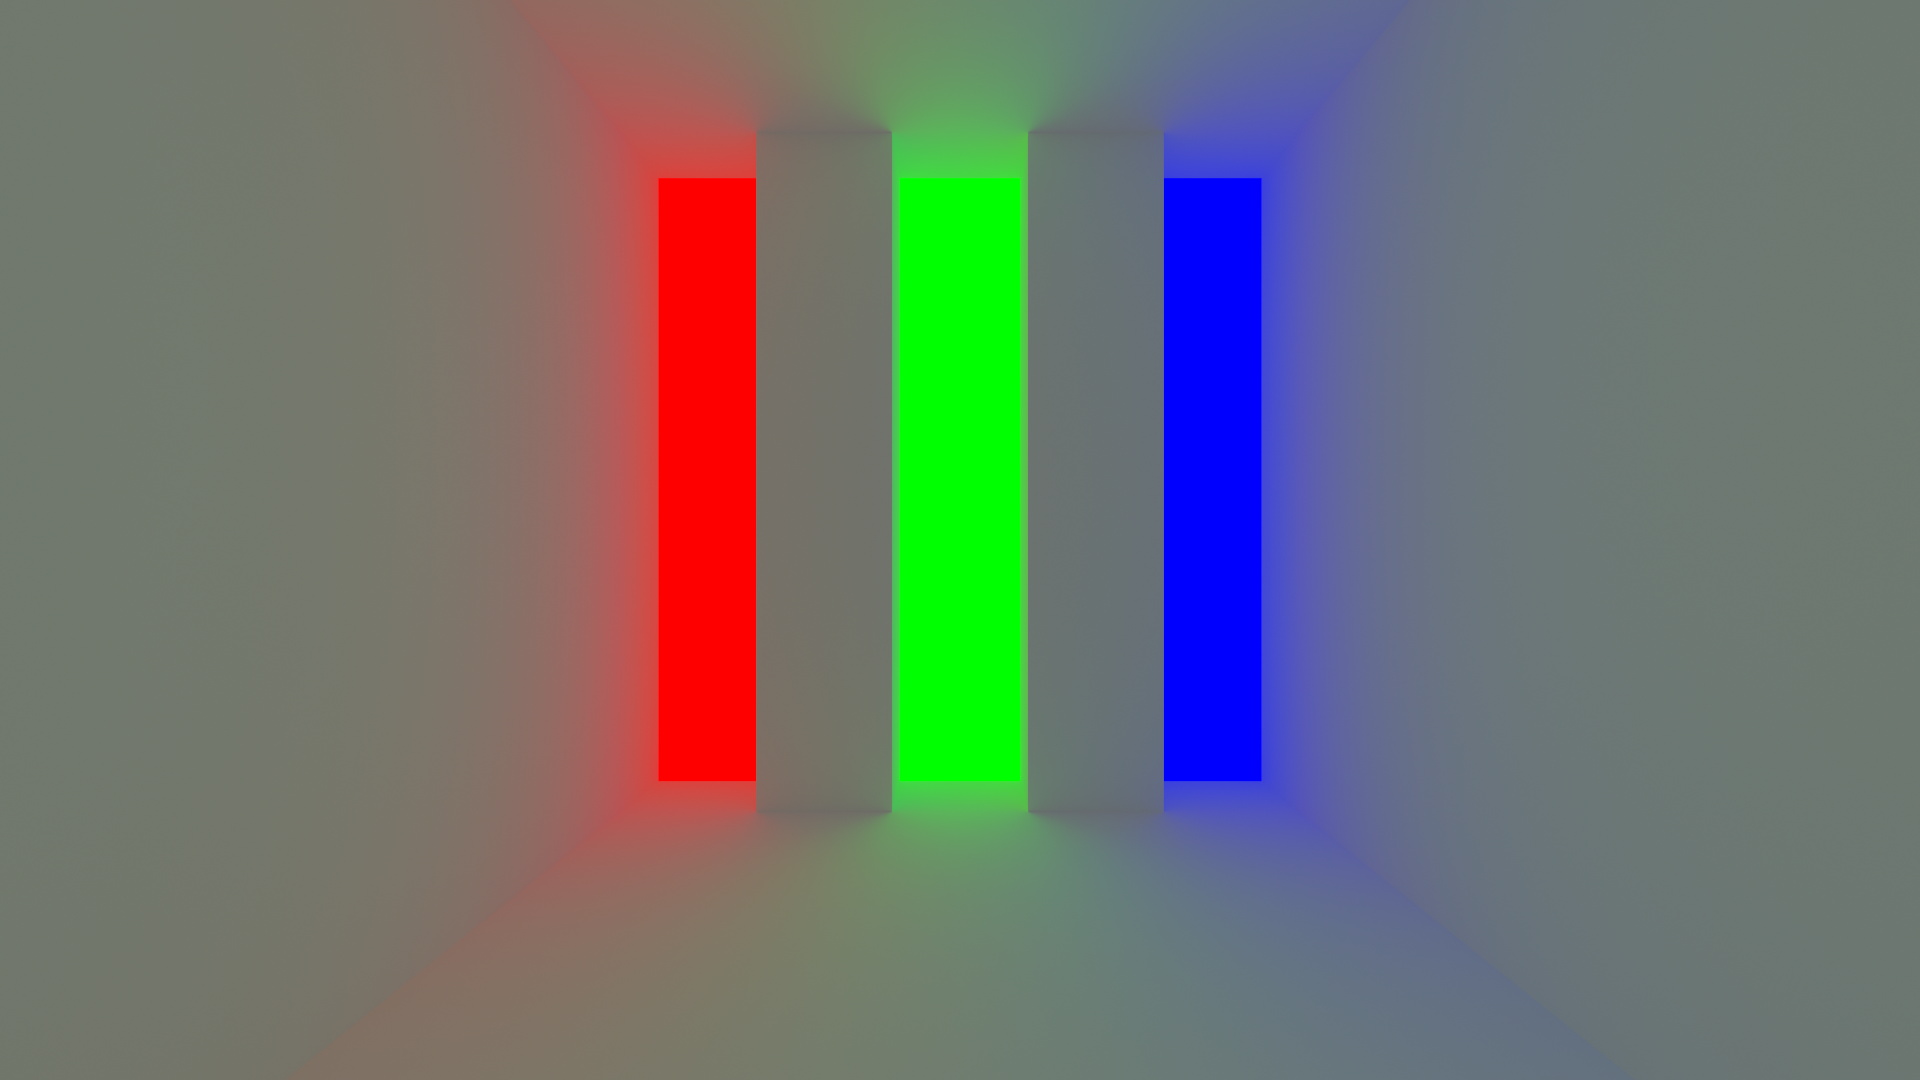
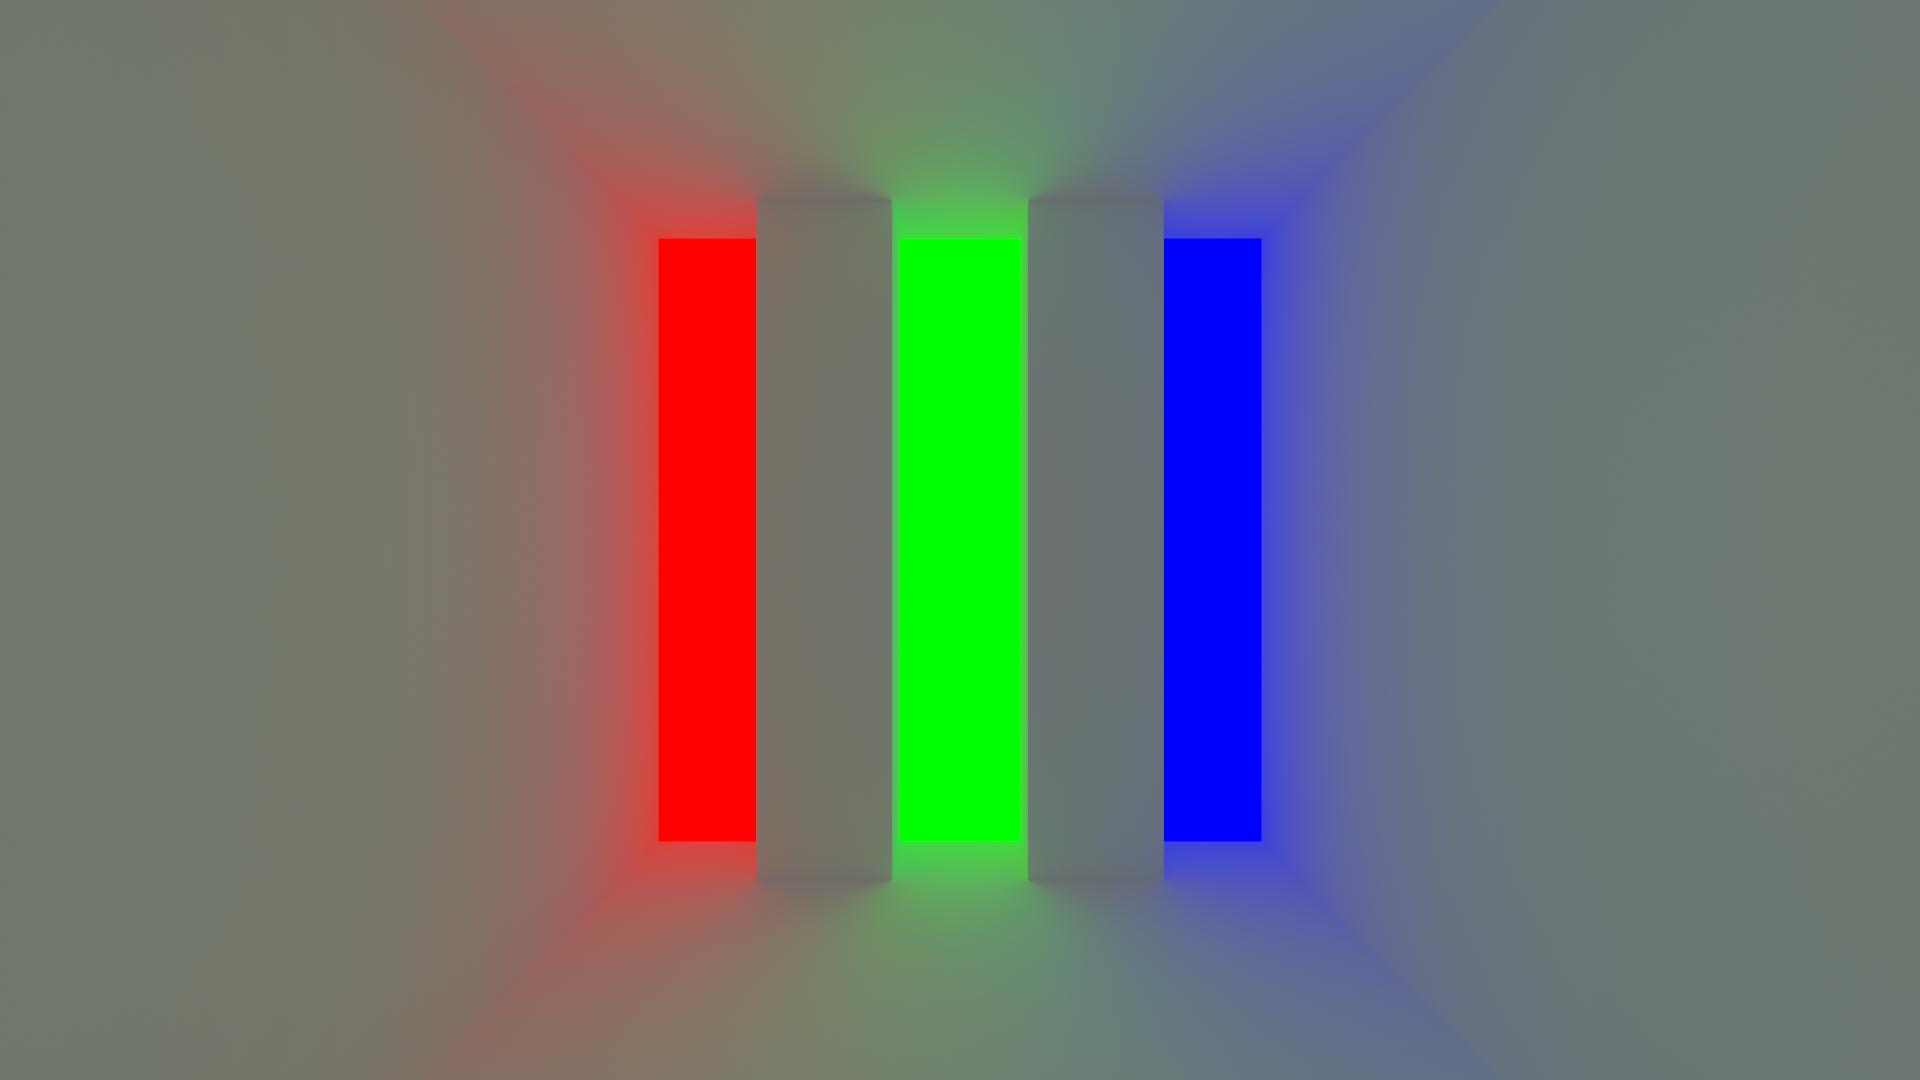
Moved camera and removed sky box in RGB Room scene

diff --git a/src/main/java/net/gavrix32/app/scenes/RGBRoom.java b/src/main/java/net/gavrix32/app/scenes/RGBRoom.java
@@ -12,16 +12,9 @@ import net.gavrix32.engine.shapes.Sphere;
 
 public class RGBRoom {
     public static Scene scene = new Scene(
-            new Camera().setPos(50, 80, -99),
+            new Camera().setPos(50, 100, -99),
             new Plane(new Vec4(), new Vec3(1), new Material(0, 0), false),
-            new Sky(new String[] {
-                    "textures/skybox/iceriver/posx.jpg",
-                    "textures/skybox/iceriver/negx.jpg",
-                    "textures/skybox/iceriver/posy.jpg",
-                    "textures/skybox/iceriver/negy.jpg",
-                    "textures/skybox/iceriver/posz.jpg",
-                    "textures/skybox/iceriver/negz.jpg"
-            }),
+            new Sky(new Vec3(0)),
             new Sphere[] {
             },
             new Box[] {
